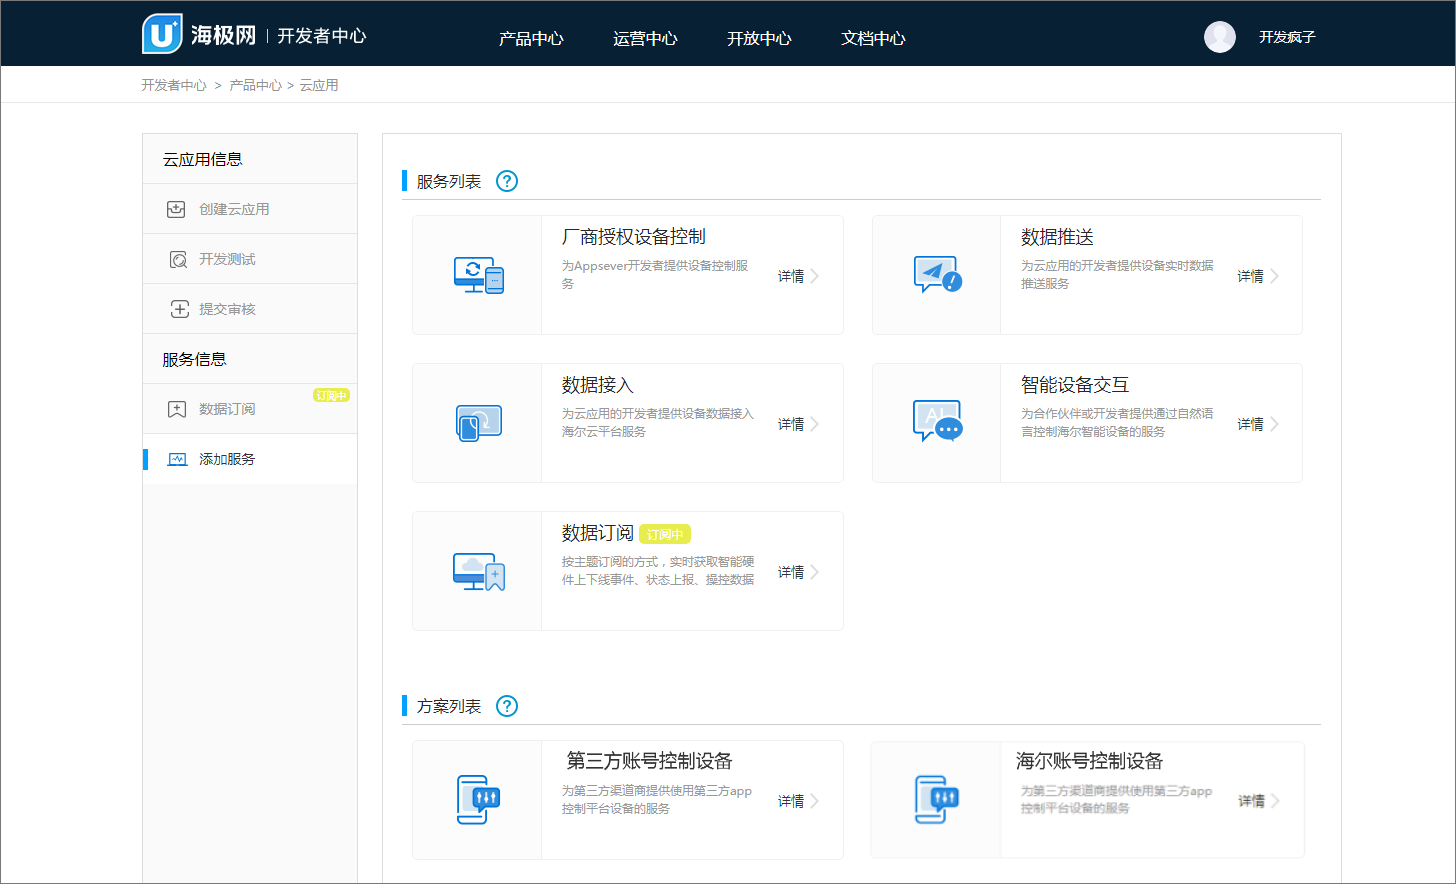
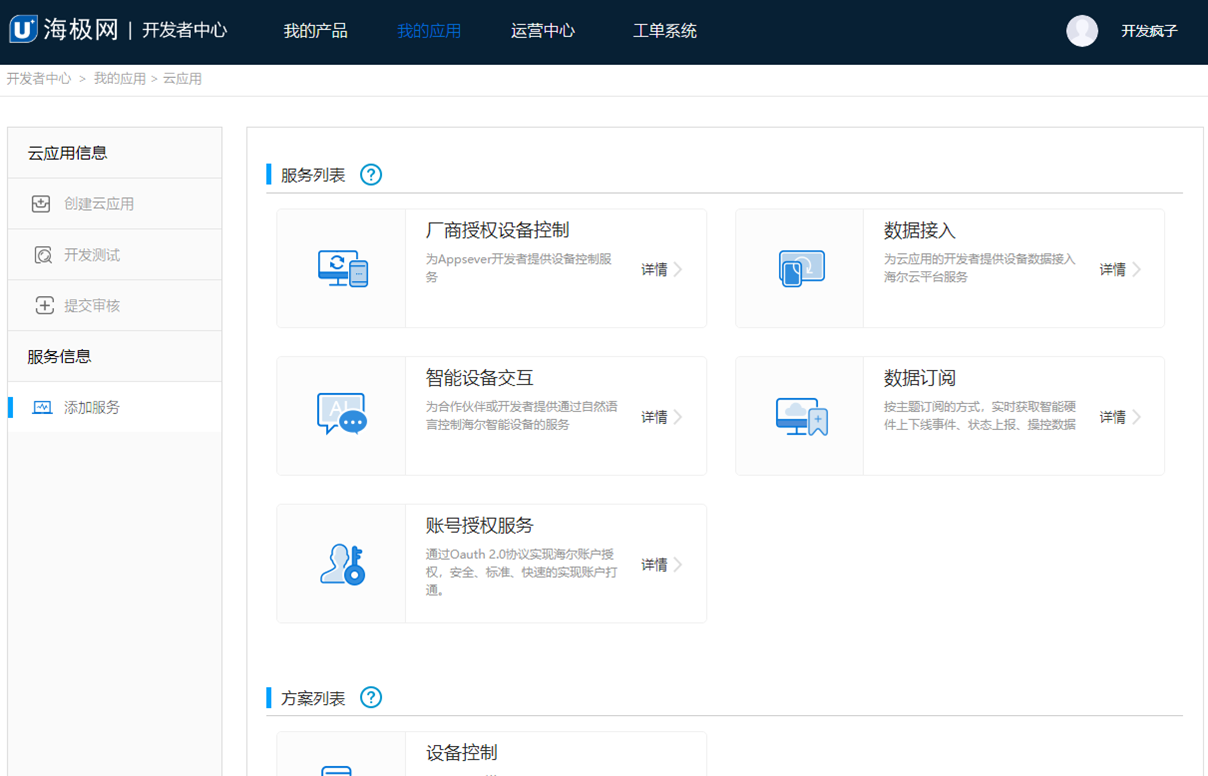
更新用户中心内容

diff --git a/zh-cn/AccountManage/HJWOauth.md b/zh-cn/AccountManage/HJWOauth.md
@@ -41,19 +41,26 @@
 
 ## 4.接入流程的开发
 
-### 4.1授权请求地址
+### 4.1海尔授权登录H5页链接
+
+第三方App通过发现技能或者绑定第三方账号的方式打开海尔账号Oauth授权登录H5页，此时第三方 App 要生成 授权 URL（标准的OAuth 授权码模式的认证的URI）。 用户 进入 授权 URL， 登录并完成 对 应用 的 授权，用户中心将重定向 用户 至第三方App回跳页，并带上code和是state。
+
 
 ```
-http://resource.haigeek.com/download/resource/selfService/haigeek/mobile-page/Oauth/login.html?client_id={systemId}&state={state}&response_type=code&redirect_url={redirect_url}
+ 测试环境 ：https://taccount.haier.com/oauth/authorize? client_id=rptest&amp;response_type=code&amp;state=xyz&amp;redirect_uri=https://r p.com/login_callback  
+
+ 生产环境：https://account.haier.com/oauth/authorize? client_id=rptest&amp;response_type=code&amp;state=xyz&amp;redirect_uri=https://r p.com/login_callbac
 
 ```
-| 参数名称      | 必填         | 说明         |
+
+|Parameter | Desc| Require| 
 | ------------- |:-------------:|:-------------:|
-|response_type| 是 |授权码模式 response_type=code |
-|client_id| 是 |云应用systemId |
-|redirect_uri| 是 |授权回调地址，务必和授权表单里填写的一致|
-|scope| 否 |权限范围，用于对客户端的权限进行控制，如果客户没有传递该参数，那么服务器则以该应用的所有权限代替 |
-|state| 否 |用于维持请求和回调过程中的状态，防止CSRF攻击，服务器不对该参数做任何处理，如果客户端携带了该参数，则服务器在响应时原封不动的返回 |
+|client_id |为海极网分配的systemid, 我们使用例子中的 rptest| Y|
+|response_type| 为授权方式, 这里固定为 code| Y|
+|redirect_uri |指定回跳地址, 这里为 https://rp.com/login_callback| Y|
+|state|为 应用 生成的随机字符, 在 用户 授权 回调时会原样返回给 应 用, 藉此可以判断来自 本平台 的回跳是否被伪造; 此参数非必传, 但推荐传送以增强安全性|N|
+|display|告知 本平台 以何种登录界面展示给 用户, 如设定为 qr 时, 本平 台 仅展示只有二维码的页面(意在让 用户 扫码登录), 同时此页面 可作为 iframe 嵌入 应用 当前页面; 若未指定, 则默认展示登录界 面|N|
+
 
 
 输入上面的授权请求地址后，出现如下界面：
@@ -78,173 +85,123 @@ Location: {redirect_uri}?code=SplxlOBeZQQYbYS6WxSbIA&state={state}
 				
 ### 4.3	获取授权token 
 
-?> **请求地址：** `https://uws.haier.net/oauth2/v1/token`</br>
+>  通过oauth登录获取的token获取海尔token 
+
+?> **请求地址：** `https://uws.haier.net/ucs/uia/get/token-code `</br>
 **HTTP Method：** POST </br>
-**Content-Type：** application/x-www-form-urlencoded
+
 
 
 **输入参数**
 
-参数名|类型|位置|必填|说明
+参数名|类型|位置|是否必填|说明
 :-|:-:|:-:|:-:|:-
-client_id|String|Param|是|开发者在海极网申请的云应用systemId
-client_secret|String|Param|是|开发者在海极网申请的云应用systemKey
-redirect_uri|String|Param|否|回调地址, 必须和申请应用是填写的一致(参数部分可不一致)
-grant_type|String|Param|是|务必为authorization_code
-code|String|Param|否|如grant_type为authorization_code时必须传入code字段，使用授权码换取token，code有效期为 10 分钟，只能使用1次
-refresh_token|String|Param|否|如grant_type为refresh_token时必须传入refresh_token字段，用于刷新token
+code|String|body|是|Oauth登录返回的code ，使用授权码换取token，code有效期为 10 分钟，只能使用1次
+redirectUrl |String|body|是|和调用登录h5 时使用的回调地址一致 
+systemId|String|Header|是|海极网申请的systemId 
+sequenceId |String|Header |否|报文流水(客户端唯一)客户端交易流水号。6-32 位。由客户端自行定义，自行生成。建议使用日期+顺序编号的方式。 
+apiVersion |String|Header |是|此处默认填v1 
+sign |String|Header |是|签名 
+timestamp |long |Header |是|Unix时间戳，精确到毫秒。 
+Content-Type  |String |Header |是|application/json;charset=UTF-8  
 
 **输出参数**
 
-参数名|类型|位置|必填|说明
-:-|:-:|:-:|:-:|:-
-access_token|String|json|是|访问令牌
-refresh_token|String|json|是|访问令牌生命周期（单位：秒）
-expires_in|String|json|是|刷新令牌
-scope|String|json|是|访问令牌实际权限范围
+参数名|类型|位置|说明
+:-|:-:|:-:|:-
+retCode| String| body| 错诨码 
+retInfo |String| body |错诨详细信息 
+payload |Object  |Body|  
+accessToken|String| payload| 授权凭证 
+refreshToken |String |payload |刷新凭证 
+uhomeClientId| String| payload| 访问Iot设备中心绑定控制设备接口，头信息必填参数（注明：设备中心接口参数定义为 clientId） 
+source |String| payload| 来源 
+scope |String |payload| 权限范围 
+expiresIn |Long| payload| accessToken的有效时间（以秒为单位） 
 
+
+用户请求 
 
 ```
-POST /token HTTP/1.1
-/oauth/v1/token?
-	grant_type=authorization_code&
-	code=ANXxSNjwQDugOnqeikRMu2bKaXCdlLxn&
-	client_id=SV-CLOUDAPP-0000&
-	client_secret=0rDSjzQ20XUj5itV7WRtznPQSzr5pVw2&
-	redirect_uri=http%3A%2F%2Fwww.example.com%2Foauth_redirect
+POST data: 
+{ 
+ "code": "abcopdfoiekdsm", 
+ "redirectUrl": "https://www.haigeek.com" 
+} 
+```
 
+请求应答
+
+```
+{ 
+ "retCode": "0000", 
+ "retInfo": "成功", 
+ "payload": { 
+  "accessToken": "wfhwdh", 
+  "expiresIn": 300, 
+  "refreshToken": "wfwidoijwdmpocop", 
+  "scope": "write,read", 
+  "source": "haier" 
+ } 
+} 
 ```
 
 ### 4.4	刷新授权token 
 
 
-?> **请求地址：** `https://uws.haier.net/oauth2/v1/token`</br>
+?> **请求地址：** `https://uws.haier.net/ucs/uia/refresh/token `</br>
 **HTTP Method：** POST </br>
-**Content-Type：** application/x-www-form-urlencoded
 
 
 **输入参数**
 
 参数名|类型|位置|必填|说明
 :-|:-:|:-:|:-:|:-
-client_id|String|Param|是|开发者在海极网申请的云应用systemId
-client_secret|String|Param|是|开发者在海极网申请的云应用systemKey
-redirect_uri|String|Param|否|回调地址, 必须和申请应用是填写的一致(参数部分可不一致)
-grant_type|String|Param|是|务必为refresh_token
-refresh_token|String|Param|否|如grant_type为refresh_token时必须传入refresh_token字段，用于刷新token
+refreshToken  |String|body|是|刷新凭证 
+systemId|String|Header|是|海极网申请的systemId 
+sequenceId |String|Header |否|报文流水(客户端唯一)客户端交易流水号。6-32 位。由客户端自行定义，自行生成。建议使用日期+顺序编号的方式。 
+apiVersion |String|Header |是|此处默认填v1 
+sign |String|Header |是|签名 
+timestamp |long |Header |是|Unix时间戳，精确到毫秒。 
+Content-Type  |String |Header |是|application/json;charset=UTF-8  
 
 **输出参数**
 
-参数名|类型|位置|必填|说明
-:-|:-:|:-:|:-:|:-
-access_token|String|json|是|访问令牌
-refresh_token|String|json|是|访问令牌生命周期（单位：秒）
-expires_in|String|json|是|刷新令牌
-scope|String|json|是|访问令牌实际权限范围
+参数名|类型|位置|说明
+:-|:-:|:-:|:-
+retCode| String| body| 错诨码 
+retInfo |String| body |错诨详细信息 
+payload |Object  |Body|  
+accessToken|String| payload| 授权凭证 
+refreshToken |String |payload |刷新凭证 
+uhomeClientId| String| payload| 访问Iot设备中心绑定控制设备接口，头信息必填参数（注明：设备中心接口参数定义为 clientId） 
+source |String| payload| 来源 
+scope |String |payload| 权限范围 
+expiresIn |Long| payload| accessToken的有效时间（以秒为单位） 
 
+
+用户请求 
 
 ```
-/v1/token?
-    grant_type=refresh_token&
-    refresh_token=TGT8U7349535U3453475983453U37&
-    client_id= SV-CLOUDAPP-0000&
-    client_secret= 0rDSjzQ20XUj5itV7WRtznPQSzr5pVw2&
-    scope=mobile
-
-
+{ 
+ "refreshToken": "refreshToken" 
+} 
 ```
 
-
-## 5.解除授权
-
-### 5.1	用户在智家app中取消授权
-
-1、下载智家app，我的->第三方平台授权->取消授权
-
-![授权][pic6]
-
-2、第三方开发者提供取消授权回调地址，用户在智家app端主动取消授权时，第三方可通过回调地址同步删除缓存在本地的授权token。如下图所示，第三方开发者需在海极网填写取消授权回调地址。
-
-![取消授权][pic7]
-
-3、回调地址的定义
-
-?> **接口名称：**  第三方提供取消授权回调地址 </br>
-**请求地址：** `第三方自定义，例：https://www.abc.com/oauth/cancel/callback?token=xyz`</br>
-**HTTP Method：** GET
-
-
-**输入参数**
-
-参数名|类型|位置|必填|说明
-:-|:-:|:-:|:-:|:-
-token|String|Param|是|授权token
-
-**输出参数**
-
-由第三方自定义
-
-### 5.2	第三方应用端实现取消授权
-
-#### 5.2.1取消授权接口
-
-
-?> **接口名称：** 在第三方应用端取消授权</br>
-**请求地址：** `https://uws.haier.net/uaccount/v1/oauth/thirdpart/cancel`</br>
-**HTTP Method：** POST
-
-
-**输入参数**
-
-参数名|类型|位置|必填|说明
-:-|:-:|:-:|:-:|:-
-systemId|String|Header|是|云应用ID；
-clientId|String|Header|是|云应用授权时的终端ID；用于标识授权终端
-accessToken|String|Header|是|授权token
-sign|String|Header|是|对请求进行签名运算产生的签名，sha256算法签名；见签名算法章节
-timestamp|String|Header|是|Unix时间戳，精确到毫秒。
-Content-Type|String|Header|是|application/json;charset=UTF-8。
-systemId|String|Body|是|云应用ID
-clientId|String|Body|是|云应用授权时的终端ID；用于标识授权终端
-
-**输出参数**
-
-标准输入，成功返回00000
-
-
-
-
-#### 5.2.2 获取云应用授权时的终端ID
-
-
-?> **接口名称：** 获取云应用授权时的终端ID </br>
-**请求地址：** `https://uws.haier.net/oauth/2.0/tokeninfo`</br>
-**HTTP Method：** POST
-
-
-**输入参数**
-
-参数名|类型|位置|必填|说明
-:-|:-:|:-:|:-:|:-
-access_token|String|Param|是|授权token；
-
-**输出参数**
-
-参数名|类型|位置|必填|说明
-:-|:-:|:-:|:-:|:-
-user_id|String|Body|是|海尔账号ID
-iss|String|Body|是|授权颁发者的字符串
-exp|String|Body|是|有效期 单位秒
-app_id|String|Body|是|云应用ID
-iat|String|Body|是|创建时间，时间戳
-client_id|String|Body|是|云应用授权时的终端ID
-error_description|String|Body|否|授权token无效
-error|String|Body|否|授权token失效时返回D00006错误码
-
-
-
-
-
+请求应答
+```
+{ 
+ "retCode": "0000", 
+ "retInfo": "成功", 
+ "payload": { 
+  "accessToken": "wfhwdh", 
+  "expiresIn": 300, 
+  "refreshToken": "wfwidoijwdmpocop", 
+  "scope": "write,read", 
+  "source": "haier" 
+ }
+} 
+```
 
 
 

diff --git a/zh-cn/_sidebar.md b/zh-cn/_sidebar.md
@@ -13,12 +13,11 @@
 
 * [用户中心](zh-cn/AccountManage)  
 	* [注册登录](zh-cn/AccountManage/signIn) 
-	* [信息管理](zh-cn/AccountManage/infoManage)    	
-	* [集团Oauth授权服务](zh-cn/AccountManage/oauth)  
+	* [信息管理](zh-cn/AccountManage/infoManage)    	  
 	* [静默授权](zh-cn/AccountManage/silentAuth)  
 	* [企业账号](zh-cn/AccountManage/enterpriseAcc) 
 	* [第三方云登录](zh-cn/AccountManage/thirdpartUserLogin) 
-	* [海极网Oauth授权服务<sup style="color:red">(new)<sup>](zh-cn/AccountManage/HJWOauth)     
+	* [海尔账号Oauth授权服务<sup style="color:red">(new)<sup>](zh-cn/AccountManage/HJWOauth)     
   	  
 
 * [家庭中心](zh-cn/FamilyManage)  

diff --git a/_sidebar.md b/_sidebar.md
@@ -14,11 +14,10 @@
 * [用户中心](zh-cn/AccountManage)  
 	* [注册登录](zh-cn/AccountManage/signIn) 
 	* [信息管理](zh-cn/AccountManage/infoManage)    	
-	* [集团Oauth授权服务](zh-cn/AccountManage/oauth)  
 	* [静默授权](zh-cn/AccountManage/silentAuth)  
 	* [企业账号](zh-cn/AccountManage/enterpriseAcc) 
 	* [第三方云登录](zh-cn/AccountManage/thirdpartUserLogin) 
-	* [海极网Oauth授权服务<sup style="color:red">(new)<sup>](zh-cn/AccountManage/HJWOauth)     
+	* [海尔账号Oauth授权服务<sup style="color:red">(new)<sup>](zh-cn/AccountManage/HJWOauth)     
   	  
 
 * [家庭中心](zh-cn/FamilyManage)  
